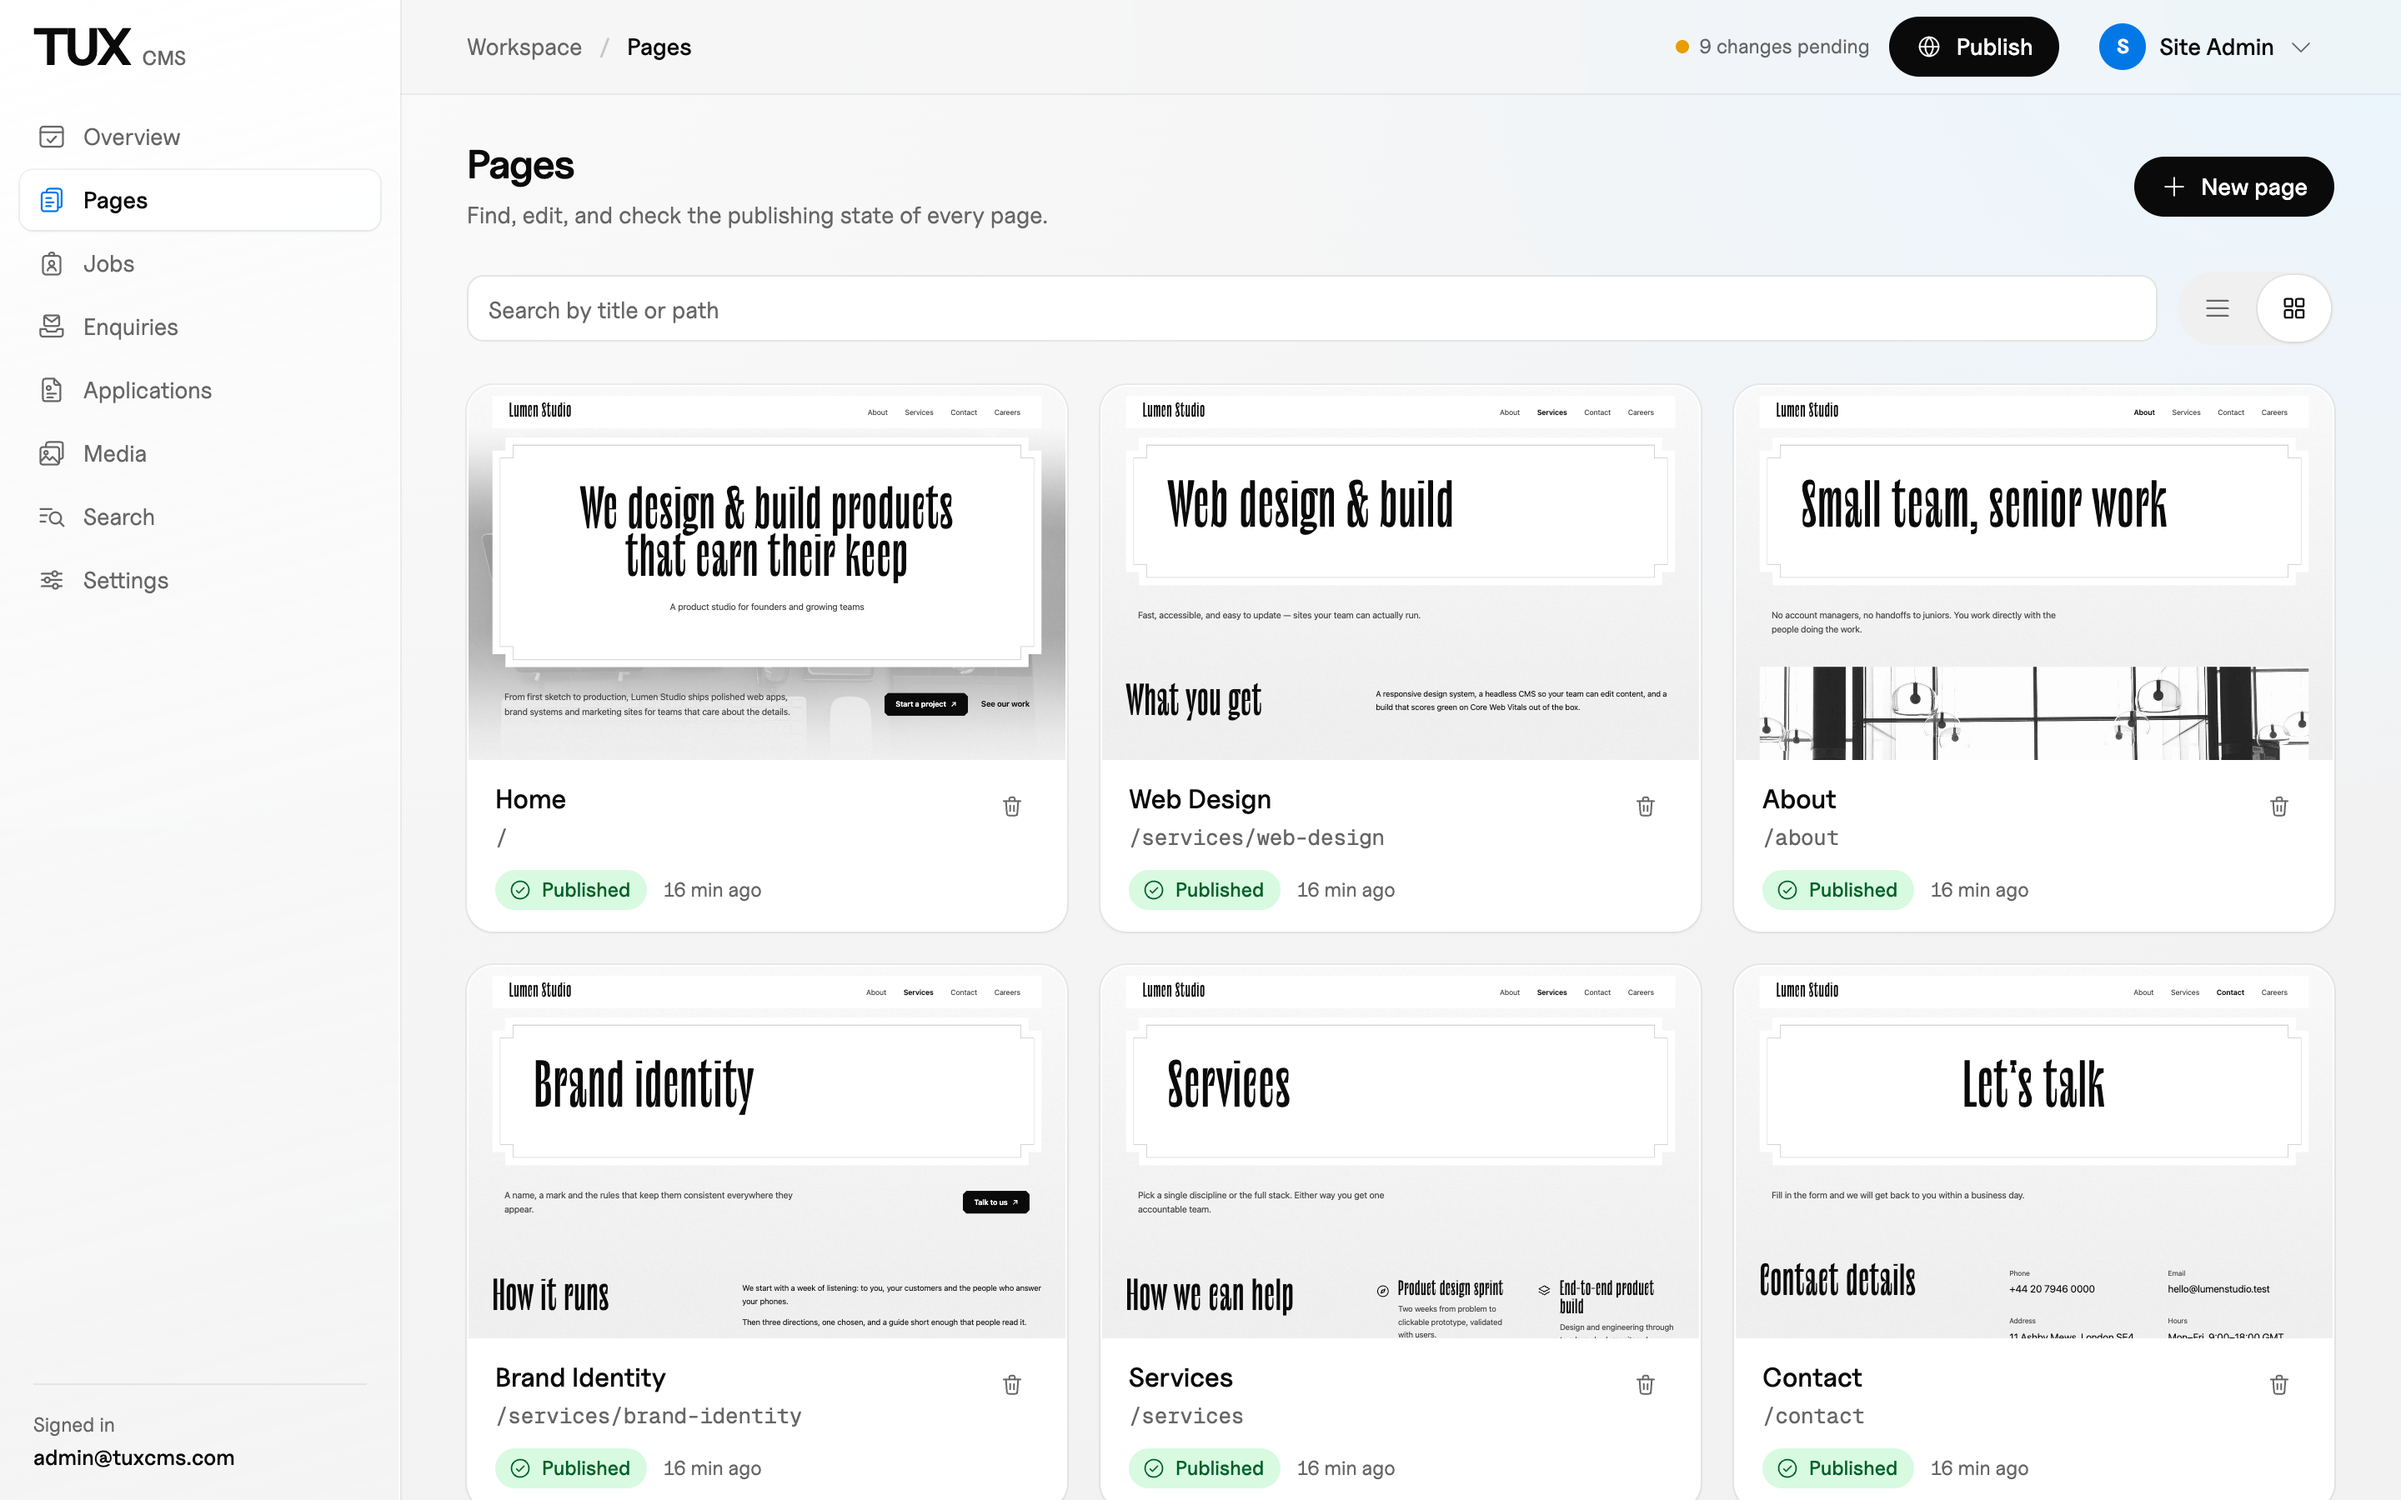
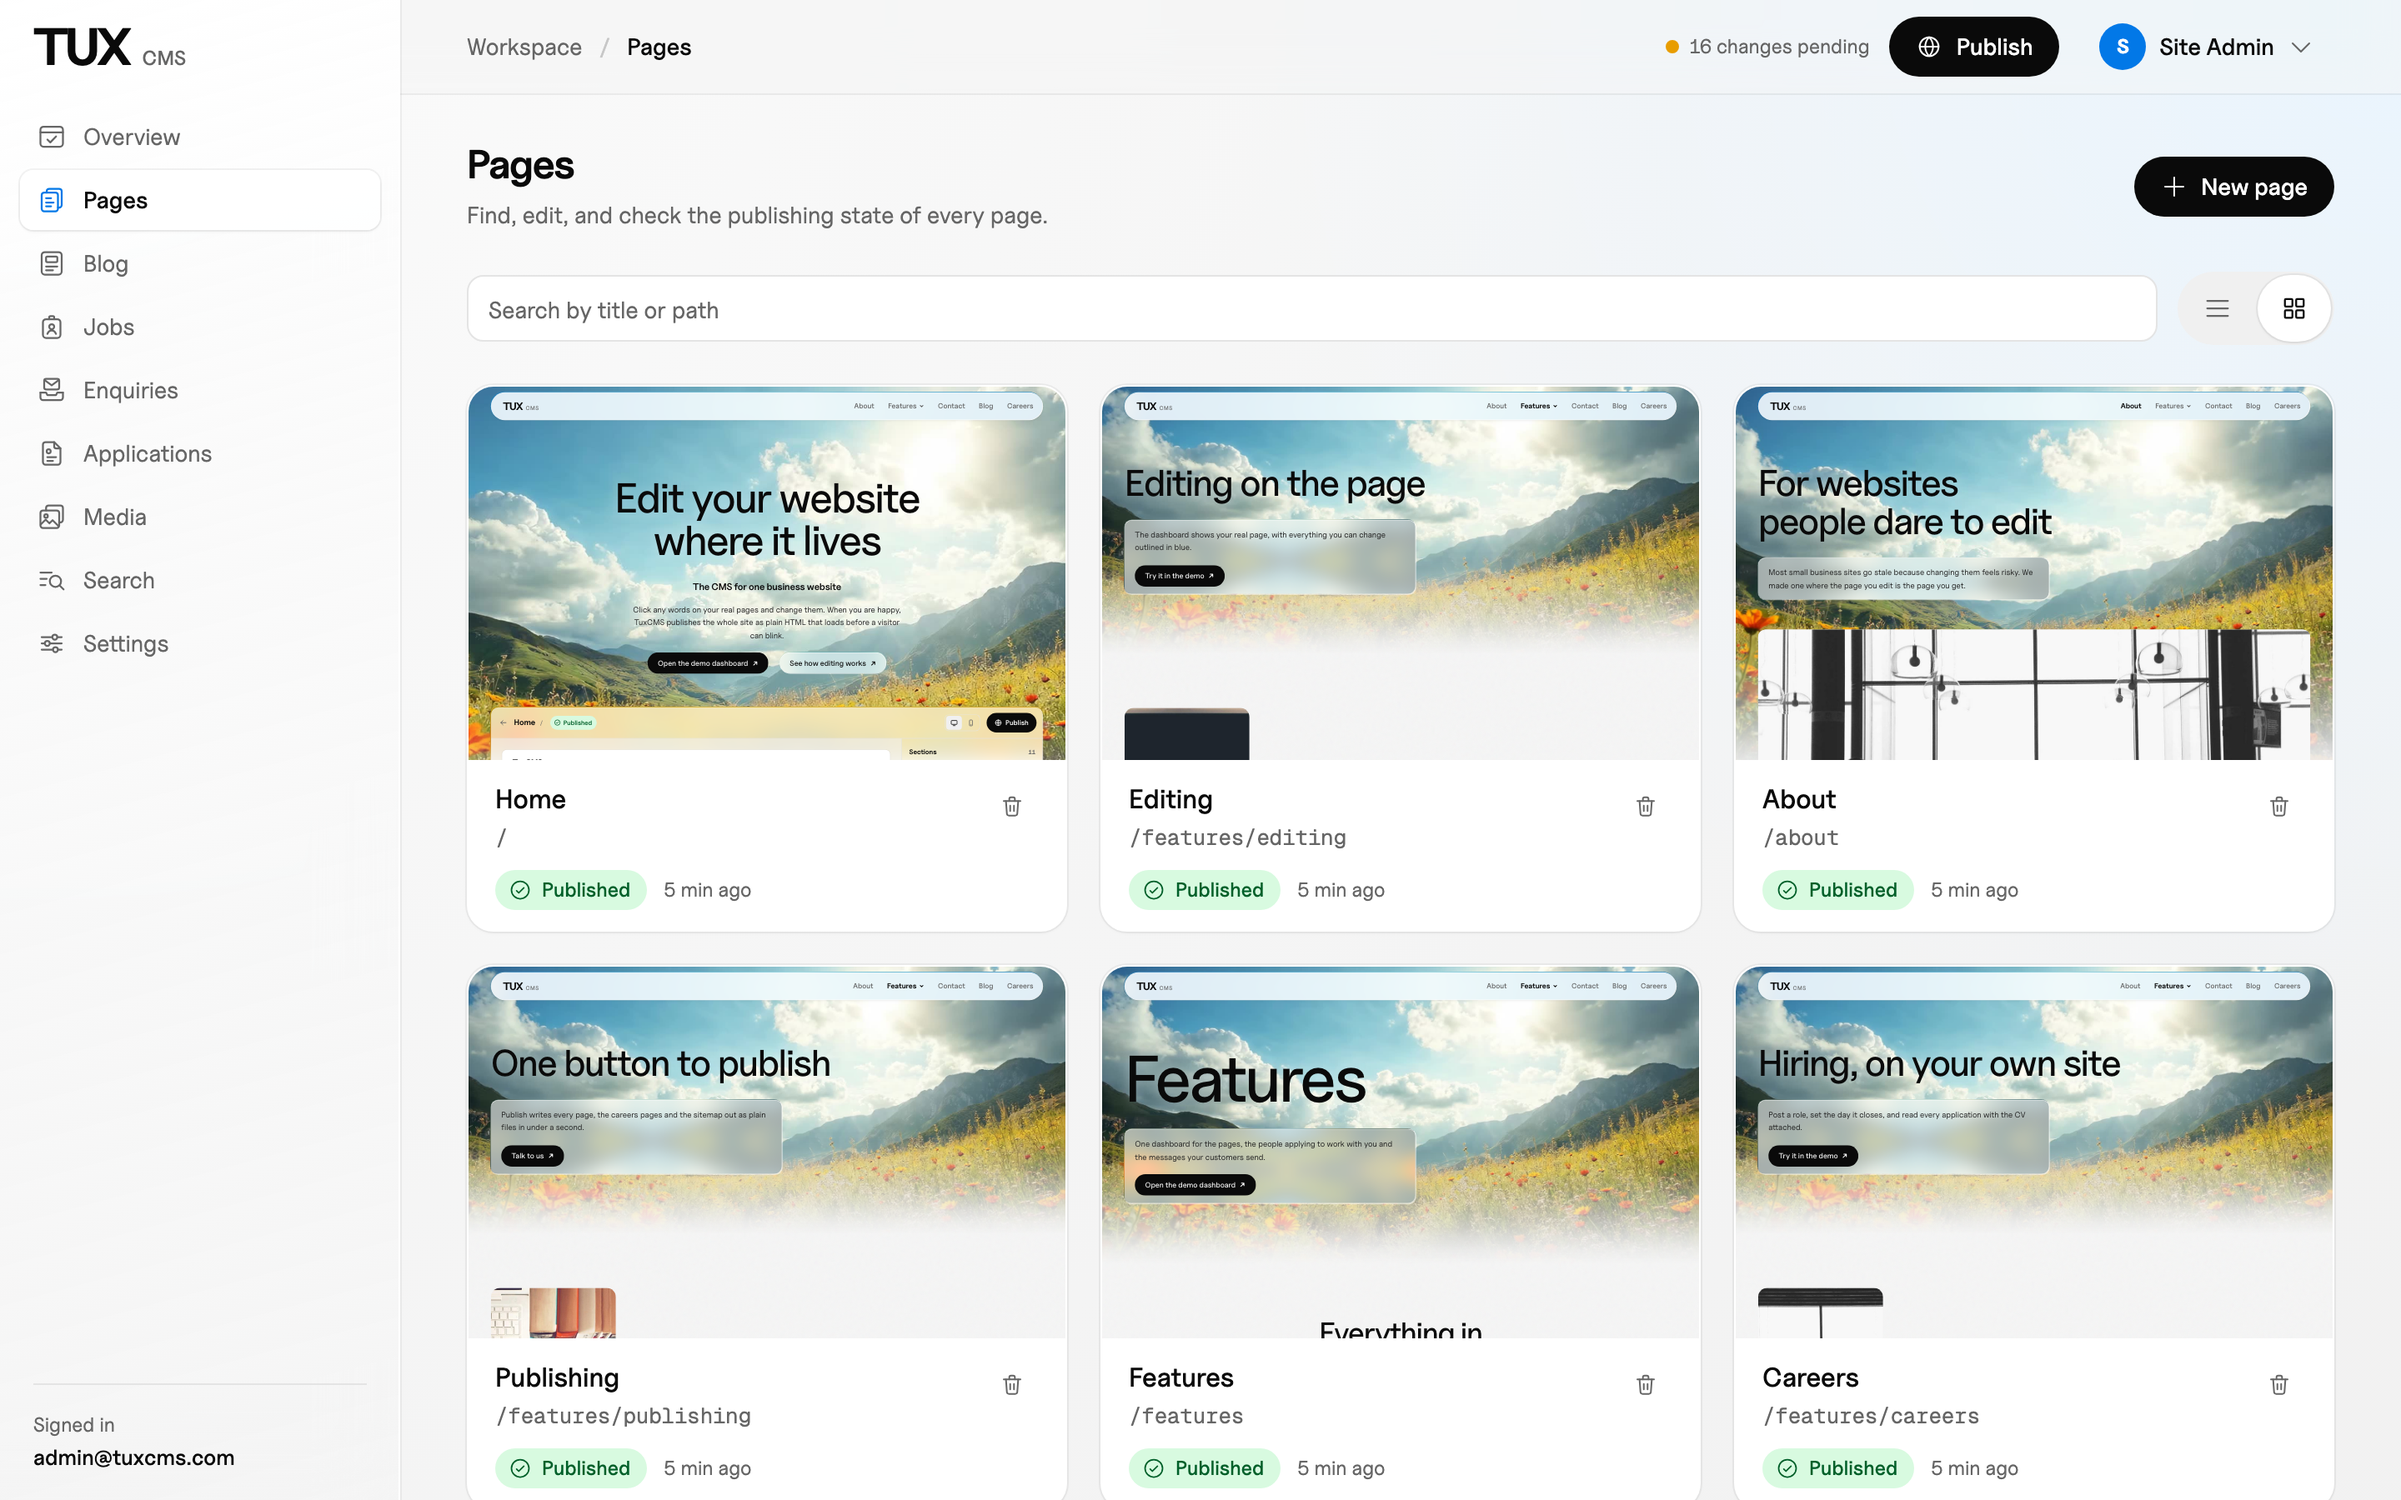
docs: Update the README screenshots for the new Shopfront and dashboard

diff --git a/README.md b/README.md
@@ -10,8 +10,8 @@ static HTML that visitors read without ever starting PHP.
 | --- | --- |
 | ![Editing a page on the live preview](docs/screenshots/dashboard-editor.png) | ![The Overview screen](docs/screenshots/dashboard-overview.png) |
 | Every editable part of the real page is outlined and edited in place. | The Overview: recent pages, the inbox, vacancies and media. |
-| ![The Pages screen in gallery view](docs/screenshots/dashboard-pages.png) | ![A wall of work on the bundled theme](docs/screenshots/theme-work.jpg) |
-| Pages as a gallery of live thumbnails. | The bundled Shopfront theme, with photographs. |
+| ![The Pages screen in gallery view](docs/screenshots/dashboard-pages.png) | ![The Features page on the bundled theme](docs/screenshots/theme-work.jpg) |
+| Pages as a gallery of live thumbnails. | The bundled Shopfront theme: each feature card holds a live piece of the CMS. |
 
 The theme follows the visitor's light or dark setting:
 
